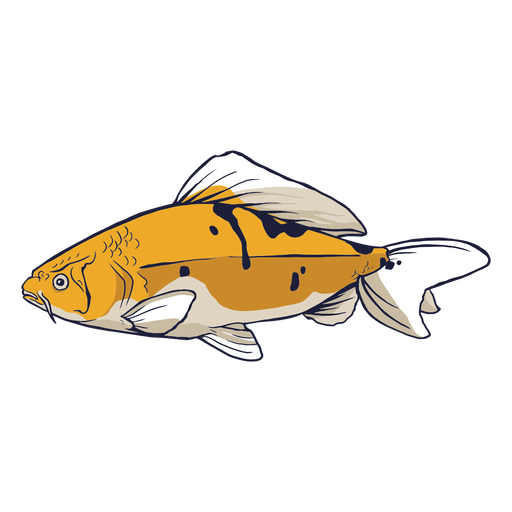
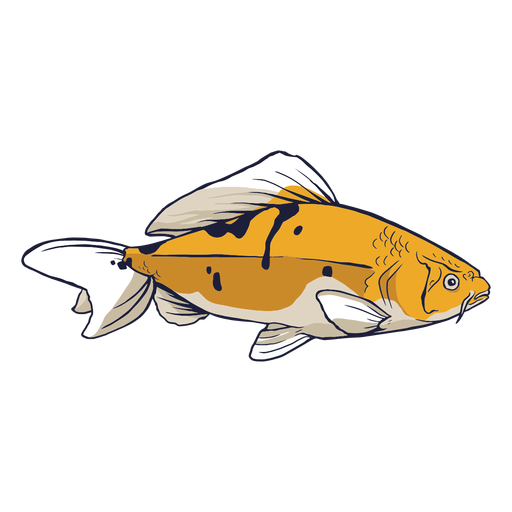
Removed fish rotation and mirrored carp image

Changed region(s): [[0.0312, 0.2812, 0.9688, 0.7188]]

diff --git a/src/fish.cpp b/src/fish.cpp
@@ -23,7 +23,7 @@ void Fish::Init(float x, float y, int width, int height, float speed, const char
 }
 
 void Fish::Draw() {
-    DrawTextureEx(m_texture, m_coords, -m_angle * 180 / PI, 1, WHITE);
+    DrawTextureV(m_texture, m_coords, WHITE);
 }
 
 void Fish::Run() {
